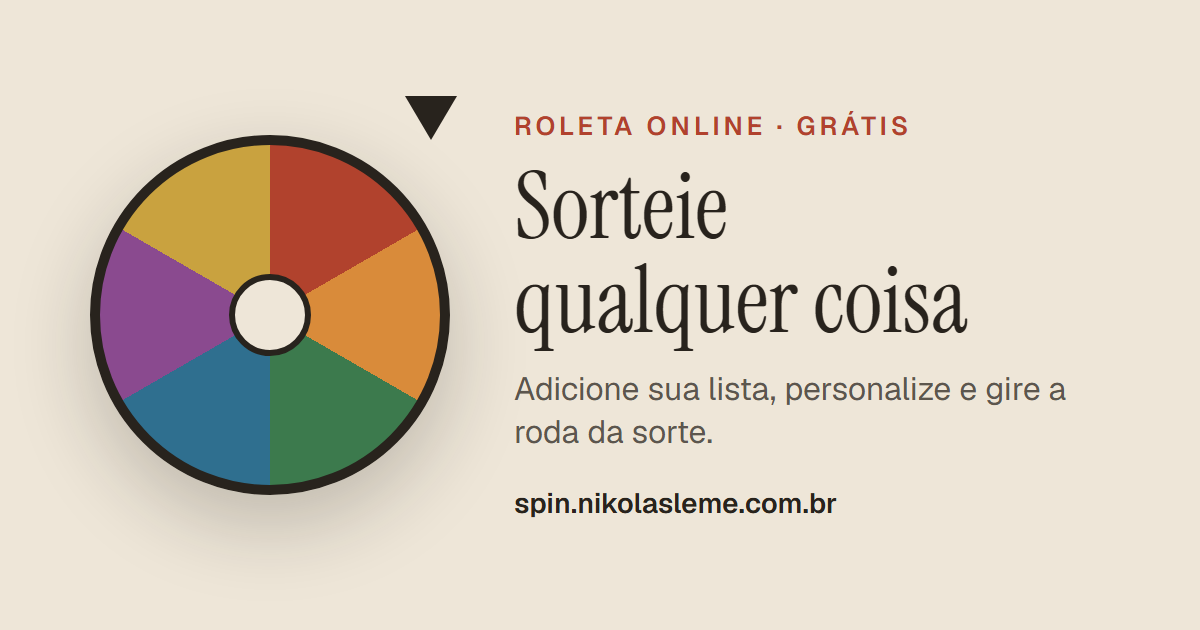
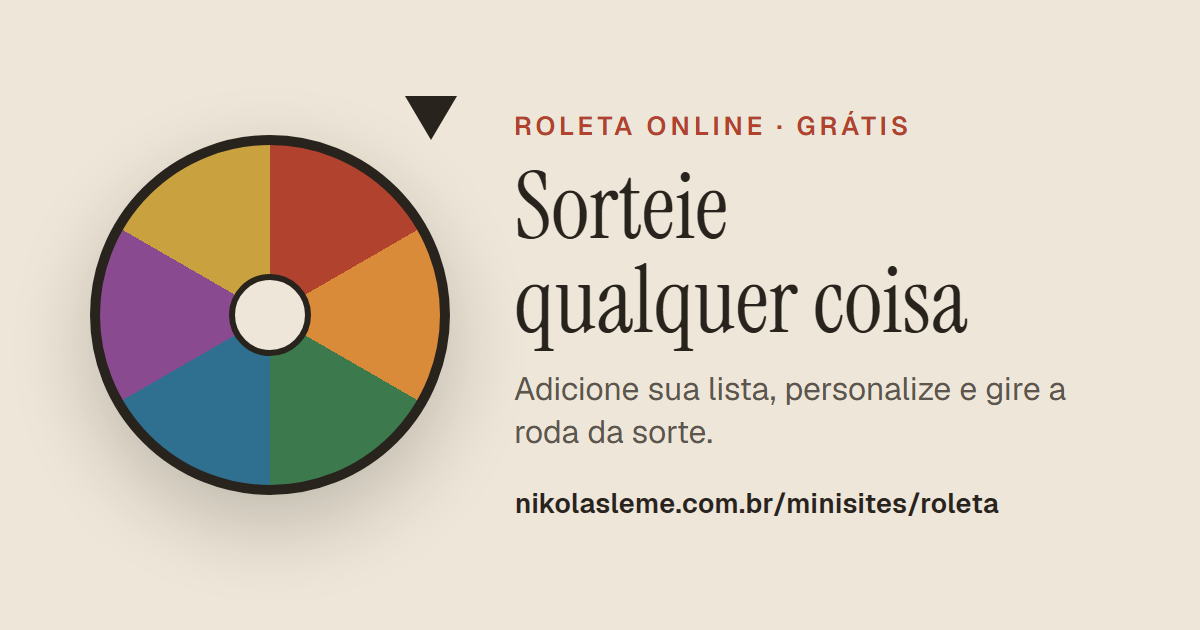
fix(roleta): imagem de compartilhamento sem o subdomínio aposentado

Changed region(s): [[0.4317, 0.7841, 0.8325, 0.8143]]

diff --git a/minisites/roleta/index.html b/minisites/roleta/index.html
@@ -39,7 +39,7 @@
       content="Roleta online grátis para sortear nomes, itens e tomar decisões. Adicione sua lista, personalize e gire a roda da sorte. Sem cadastro."
     />
     <meta property="og:url" content="https://nikolasleme.com.br/minisites/roleta/" />
-    <meta property="og:image" content="https://nikolasleme.com.br/minisites/roleta/og-image.png" />
+    <meta property="og:image" content="https://nikolasleme.com.br/minisites/roleta/og-image.png?v=20261020" />
     <meta property="og:image:width" content="1200" />
     <meta property="og:image:height" content="630" />
     <meta property="og:image:alt" content="Spin — roleta online para sortear" />
@@ -56,7 +56,7 @@
       name="twitter:description"
       content="Roleta online grátis para sortear nomes, itens e tomar decisões. Personalize e gire!"
     />
-    <meta name="twitter:image" content="https://nikolasleme.com.br/minisites/roleta/og-image.png" />
+    <meta name="twitter:image" content="https://nikolasleme.com.br/minisites/roleta/og-image.png?v=20261020" />
 
     <!-- Structured Data -->
     <script type="application/ld+json">

diff --git a/js/data/minisites.js b/js/data/minisites.js
@@ -8,7 +8,7 @@ window.NLS_MINISITES = [
     title: "Spin — Roleta online",
     description:
       "Adicione qualquer lista de itens, personalize e gire. Perfeita pra sorteios e decisões difíceis entre amigos.",
-    cover: "minisites/roleta/og-image.png",
+    cover: "minisites/roleta/og-image.png?v=20261020",
     tags: ["Sorteio", "Grupo"],
   },
   {

diff --git a/index.html b/index.html
@@ -300,7 +300,7 @@ async (req, res) => {
   </footer>
 
   <script src="js/data/projects.js?v=20261020" defer></script>
-  <script src="js/data/minisites.js" defer></script>
+  <script src="js/data/minisites.js?v=20261020" defer></script>
   <script src="js/site.js?v=20260930" defer></script>
 </body>
 </html>

diff --git a/minisites/index.html b/minisites/index.html
@@ -82,7 +82,7 @@
     </div>
   </footer>
 
-  <script src="../js/data/minisites.js" defer></script>
+  <script src="../js/data/minisites.js?v=20261020" defer></script>
   <script src="../js/site.js?v=20260930" defer></script>
 </body>
 </html>
